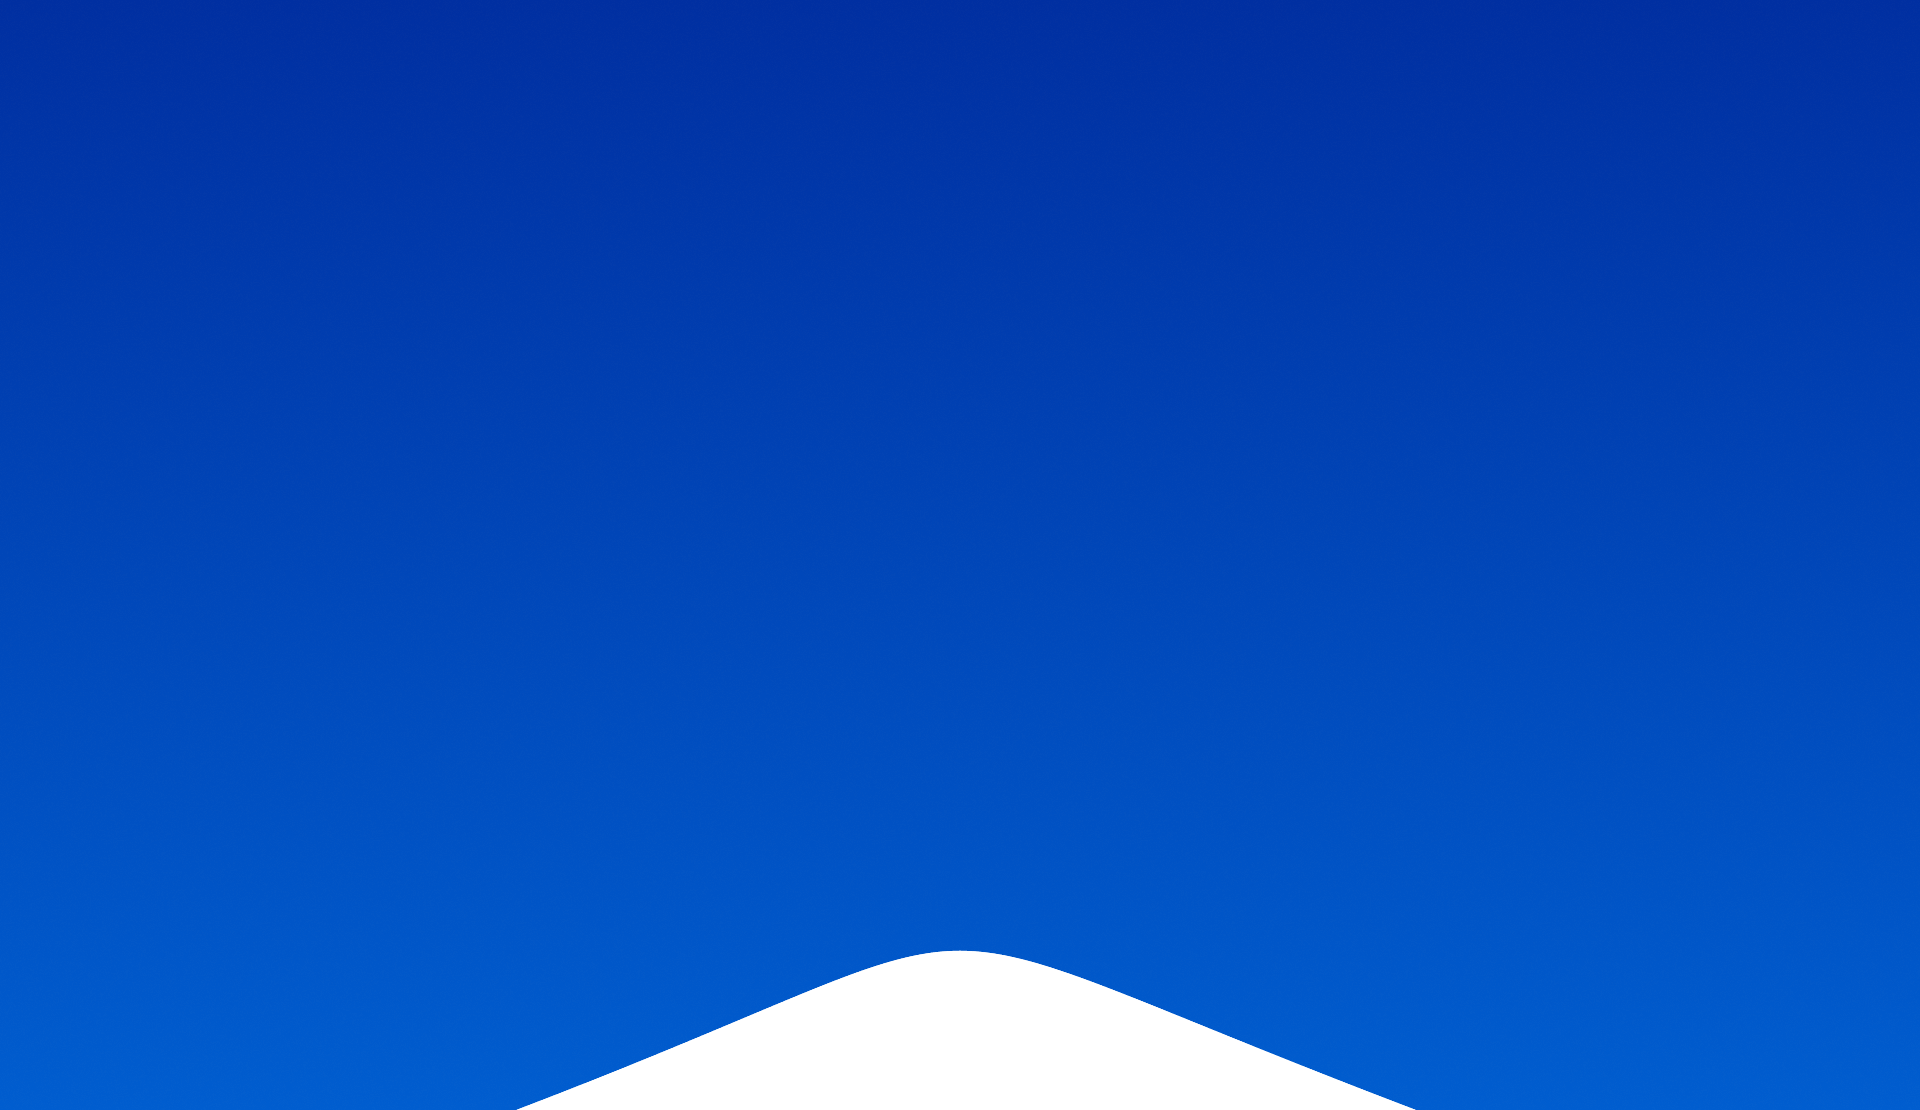
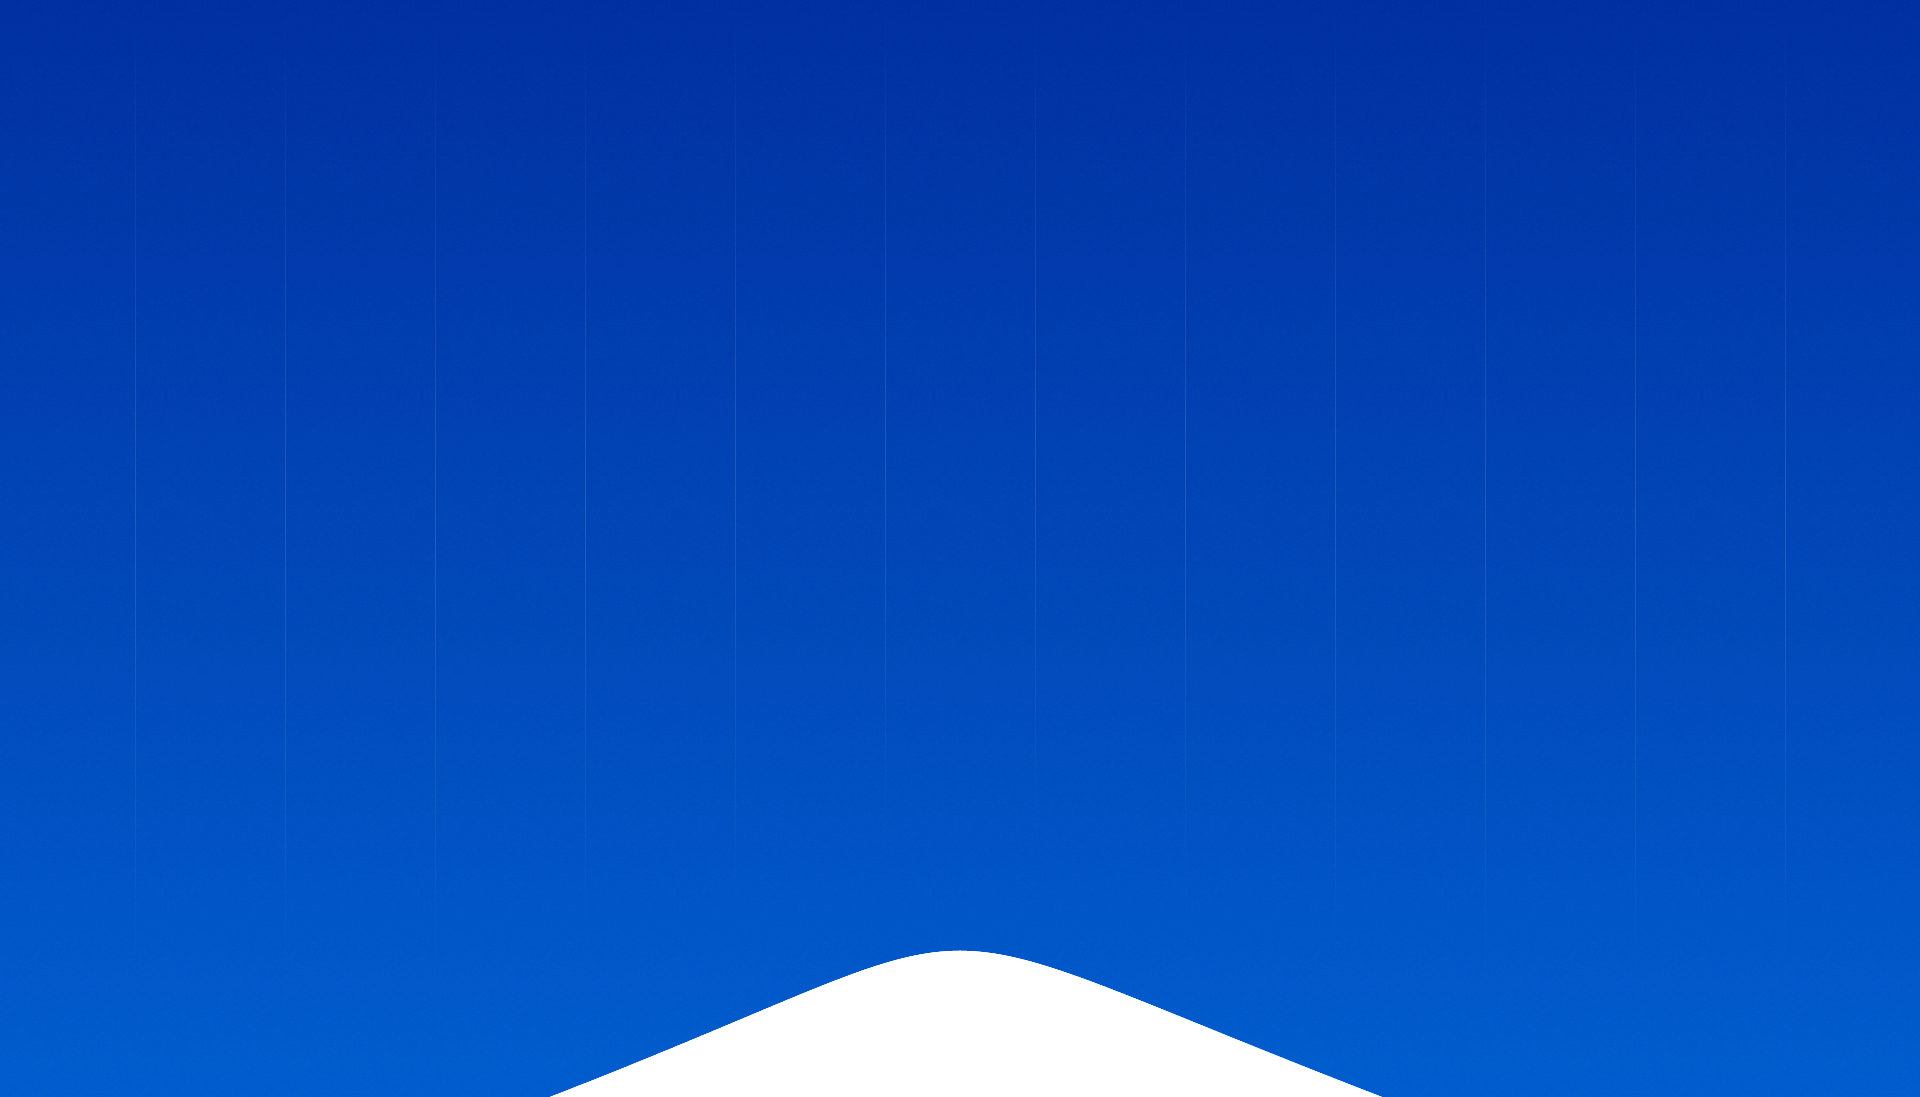
masterfilsngafaf

diff --git a/app/component/body/Page1.js b/app/component/body/Page1.js
@@ -1,6 +1,6 @@
 'use client';
 
-import React , { useRef } from 'react';
+import React, { useEffect, useRef, useState } from 'react';
 import Image from 'next/image';
 import image3 from '../image/image3.png';
 import image4 from '../image/image4.png';
@@ -27,18 +27,46 @@ const Page1 = () => {
       swiperRef.current.swiper.slidePrev();
     }
   };
+
+  const [activeSection, setActiveSection] = useState(null);
+
+  const sectionsRef = useRef([]);
+  useEffect(() => {
+    const handleScroll = () => {
+      sectionsRef.current.forEach((section, index) => {
+        const rect = section.getBoundingClientRect();
+        if (rect.top >= 0 && rect.top < window.innerHeight * 0.5) {
+          setActiveSection(index);
+        }
+      });
+    };
+
+    window.addEventListener('scroll', handleScroll);
+    return () => window.removeEventListener('scroll', handleScroll);
+  }, []);
     return (
         <div>
             <div className='container mx-auto py-[60px] md:py-[80px] lg:py-[120px] xl:py-[150px] 2xl:py-[200px] sm:px-0 px-[24px]'>
+            <div
+                className={`flex flex-col justify-center items-center transition-all duration-700 ${
+                    activeSection === 1 ? 'opacity-100 translate-y-0' : 'opacity-0 translate-y-10'
+                }`}
+                ref={(el) => (sectionsRef.current[1] = el)}
+                >
                 <p className='promise'>Our Promise</p>
                 <h2 className='capitalapex'>Why apex capital?</h2>
-                <div className='flex justify-center items-center gap-[84px] w-full flex-col sm:flex-row'>
-                    <div className='flex-1 overflow-hidden sm:w-auto w-[100%]'>
+                </div>
+
+                <div className='flex justify-center items-center gap-[84px] w-full flex-col sm:flex-row '>
+               
+                    <div className='flex-1 overflow-hidden sm:w-auto w-[100%] relative'>
+                    <div className="swiper-pagination text-[40px] md:text-[50px] lg:text-[60px] xl:text-[80px] 2xl:text-[100px]"></div>
                     <Swiper
                     loop={true}
-                        pagination={{
-                            type: 'fraction',
-                        }}
+                    pagination={{
+                        el: '.swiper-pagination',
+                        type: 'fraction',
+                      }}
                         navigation={{
                             nextEl: '.swiper-next',
                             prevEl: '.swiper-prev',
@@ -57,7 +85,9 @@ const Page1 = () => {
                         </SwiperSlide>
                 </Swiper>
                     </div>
-                    <div className='flex-1'>
+                    <div className={`flex-1 ${
+                    activeSection === 1 ? 'opacity-100 translate-y-0' : 'opacity-0 translate-y-10'
+                }`} ref={(el) => (sectionsRef.current[1] = el)}>
                         <h2 className='firsthanexpein mb-[22px] lg:mb-[32px]'>First-hand experience</h2>
                         <p className='jusinverstong'>
                         We're not just investors; our team is made up of practised entrepreneurs who have lived the startup journey. The result? An eye for promising ideas and the know-how to scale them. Expect more than funding; we offer a holistic partnership based on years of experience.

diff --git a/app/globals.css b/app/globals.css
@@ -7,6 +7,11 @@
   --foreground: #FFF;
 }
 
+html {
+  scroll-behavior: smooth;
+}
+
+
 @media (prefers-color-scheme: dark) {
   :root {
     --background: #FFF;
@@ -100,13 +105,13 @@ body {
   .jusinverstong{
     @apply text-[15px] sm:text-[16px] md:text-[18px] lg:text-[20px] xl:text-[22px] 2xl:text-[24px]
   }
-  .swiper-pagination {
+  /* .swiper-pagination {
     @apply text-[33px] sm:text-[44px] md:text-[50px] lg:text-[60px] xl:text-[80px] 2xl:text-[100px]
   }
   
   .swiper-pagination-current , .swiper-pagination-total {
     @apply text-[28px] sm:text-[33px] md:text-[44px] lg:text-[50px] xl:text-[58px] 2xl:text-[64px]
-  }
+  } */
   .growingonfsdaeef{
     @apply text-[15px] sm:text-[16px] md:text-[18px] lg:text-[20px] xl:text-[22px] 2xl:text-[24px]
   }
@@ -136,6 +141,9 @@ body {
   }
   .socialmediaimage{
     @apply  w-[40px] sm:w-[50px] lg:w-[60px] xl:w-[70px] 2xl:w-[84px] h-[40px] sm:h-[50px] lg:h-[60px] xl:h-[70px] 2xl:h-[84px] flex justify-center items-center rounded-[84px]
+  }
+  .swiper-pagination .swiper-pagination-current ,.swiper-pagination-total{
+    @apply !text-[35px] md:!text-[40px] lg:!text-[45px] xl:!text-[50px] 2xl:!text-[64px]
   }
 }
 
@@ -404,7 +412,8 @@ body {
 }
 
 
-/*move swiper pagination on top to image */
+
+
 .swiper-pagination {
   position: absolute;
   text-align: center;
@@ -412,17 +421,16 @@ body {
   transform: translate3d(0, 0, 0);
   z-index: 10;
   top: 50% !important;
-  right: -22px !important;
-  display: flex;
+  right: 0px !important;
+  display: inline-flex;
   justify-content: end;
   color: #252A4E !important;
   leading-trim: both;
   text-edge: cap;
   font-family: "Mersad";
   font-style: normal;
-  font-weight: 100;
+  font-weight: 100 !important;
   line-height: 120%;
-  
 }
 
 .swiper-pagination-current , .swiper-pagination-total {
@@ -442,4 +450,65 @@ body {
   -webkit-text-stroke-color: #FF8E8E;
   font-family: "Proxima Nova";
   font-size: 100px;
+}
+
+
+.opacity-0 {
+  opacity: 0;
+}
+
+.opacity-100 {
+  opacity: 1;
+}
+
+.translate-y-10 {
+  transform: translateY(10px);
+}
+
+.translate-y-0 {
+  transform: translateY(0);
+}
+
+.transition-all {
+  transition: all 0.7s ease-in-out;
+}
+
+
+.body-container {
+  position: relative;
+  width: 100%;
+  height: 100vh;
+  overflow: hidden;
+}
+
+.page {
+  position: absolute;
+  top: 0;
+  left: 100%; /* Start outside the viewport on the right */
+  width: 100%;
+  height: 100%;
+  opacity: 0; /* Hidden by default */
+  transform: translateX(0);
+  transition: transform 1s ease, opacity 1s ease;
+}
+
+.page.active {
+  left: 0; /* Center the active page */
+  opacity: 1; /* Fully visible */
+  transform: translateX(0); /* No translation */
+  z-index: 1;
+}
+
+.page.slide-in {
+  left: 100%; /* Slide in from the right */
+  opacity: 0;
+  transform: translateX(-100%); /* Slide leftwards to appear */
+  z-index: 0;
+}
+
+.page.slide-out {
+  left: 0;
+  opacity: 0;
+  transform: translateX(-100%); /* Slide leftwards to disappear */
+  z-index: 0;
 }

diff --git a/app/component/header/NavBar.js b/app/component/header/NavBar.js
@@ -1,6 +1,6 @@
 "use client";
 
-
+"use client";
 import Link from 'next/link';
 import React, { useState, useRef, useEffect } from 'react';
 import logo from '../image/logo.png';
@@ -8,6 +8,7 @@ import Image from 'next/image';
 import { LiaBarsSolid } from "react-icons/lia";
 import { VscChromeClose } from "react-icons/vsc";
 import image13 from '../image/image13.png';
+import page3 from '../body/Page3';
 
 const NavBar = () => {
     const [toggle, setToggle] = useState(false);
@@ -50,15 +51,15 @@ const NavBar = () => {
                         <LiaBarsSolid className='text-white text-[24px] absolute' />
                     </div>
                 </div>
-                <h1 className='Froggo-Logo w-[150px] lg:w-[180px] 2xl:w-[207px]'><Image src={logo} alt=''/></h1>
+                <Link href='/' className='Froggo-Logo w-[150px] lg:w-[180px] 2xl:w-[207px]'><Image src={logo} alt=''/></Link>
                 <nav ref={menuRef} className={`navbar-items-main absolute sm:top-0 top-[100%] sm:right-0 sm:relative duration-1000 z-50 sm:opacity-100 flex justify-between items-start sm:items-center gap-[20px] md:gap-[25px] lg:gap-[30px] xl:gap-[35px] 2xl:gap-[40px] sm:flex-row flex-col p-[20px] sm:p-[0]
                     ${toggle ? 'right-[10]' :'right-[130%]' }
                     ${toggle ? 'opacity-100' : 'opacity-10'} 
                     `} >
-                    <Link className={`Link-manu-bar`} href="Portfolio">Portfolio</Link>
-                    <Link className='Link-manu-bar' href="Funds">Funds</Link>
-                    <Link className='Link-manu-bar' href="Our Teamo">Our Teamo</Link>
-                    <Link className='Link-manu-bar ' href="News & Resources">News & Resources</Link>
+                    <Link className="Link-manu-bar" href='/'>Portfolio</Link>
+                    <Link className='Link-manu-bar' href="/Funds">Funds</Link>
+                    <Link className='Link-manu-bar' href="/Our Teamo">Our Teamo</Link>
+                    <Link className='Link-manu-bar ' href="/News & Resources">News & Resources</Link>
                 </nav>
 
                 

diff --git a/app/component/header/HeroArea.js b/app/component/header/HeroArea.js
@@ -4,8 +4,8 @@ import image2 from '../image/image2.png';
 
 const HeroArea = () => {
     return (
-<div className='relative w-full overflow-hidden'>
-    <svg className='absolute w-full px-[200px] 2xl:px-[150px] 3xl:px-[400px]' viewBox="0 0 1651 997" fill="none" xmlns="http://www.w3.org/2000/svg">
+<div className='relative w-full overflow-hidden z-10'>
+    {/* <svg className='absolute w-full px-[200px] 2xl:px-[150px] 3xl:px-[400px]' viewBox="0 0 1651 997" fill="none" xmlns="http://www.w3.org/2000/svg">
 <line x1="0.5" y1="2.18557e-08" x2="0.499956" y2="997" stroke="url(#paint0_linear_123_341)" stroke-opacity="0.4"/>
 <line x1="150.5" y1="2.18557e-08" x2="150.5" y2="997" stroke="url(#paint1_linear_123_341)" stroke-opacity="0.4"/>
 <line x1="300.5" y1="2.18557e-08" x2="300.5" y2="997" stroke="url(#paint2_linear_123_341)" stroke-opacity="0.4"/>
@@ -80,7 +80,7 @@ const HeroArea = () => {
 <stop offset="1" stop-color="white" stop-opacity="0"/>
 </linearGradient>
 </defs>
-            </svg>
+            </svg> */}
             <div className='mx-auto  py-[130px] sm:py-[150px] md:py-[180px] lg:py-[220px] xl:py-[260px] 2xl:py-[270px] sm:px-[50] px-[24px]'>
                 <div className='flex justify-center items-center flex-col'>
                     <p className='venturecpai'>#01 Venture Capital Company</p>
@@ -89,8 +89,8 @@ const HeroArea = () => {
                     <button className='getstartedbutt pb-5 hover:bg-transparent hover:text-[#fff] border-[1px] duration-300 hover:border-[#FFFFFF3D]'>Get Started</button>
                 </div>
             </div>
-            <div className='absolute bottom-2 sm:bottom-[51px] left-[50%] translate-x-[-50%] flex justify-center items-center flex-col sm:gap-[12px]'>
-                <Image src={image2} alt=""/>
+            <div className='absolute bottom-2 sm:bottom-[41px] left-[50%] translate-x-[-50%] flex justify-center items-center flex-col sm:gap-[12px]'>
+                <Image className='' src={image2} alt=""/>
                 <h3 className='ScrollDown'>Scroll Down</h3>
             </div>
         </div>

diff --git a/app/component/body/Page3.js b/app/component/body/Page3.js
@@ -10,7 +10,7 @@ const Page3 = () => {
         <div>
             <div className='container mx-auto px-[24px] sm:py-0 py-[60px] md:py-[80px] lg:py-[120px] xl:py-[150px] 2xl:py-[200px]'>
                 
-               <div className='flex flex-col-reverse items-end md:items-center justify-between  md:flex-row gap-[50px] md:gap-[80px] lg:gap-[120px] xl:gap-[160px] 2xl:gap-[200px] px-6 sm:px-0 h-full'>
+               <div className='flex flex-col items-end md:items-center justify-between  md:flex-row gap-[50px] md:gap-[80px] lg:gap-[120px] xl:gap-[160px] 2xl:gap-[200px] px-6 sm:px-0 h-full'>
                     <div className='flex justify-between flex-col gap-[40px] md:gap-[60px] lg:gap-[80px] xl:gap-[120px] 2xl:gap-[150px] h-[150%]'>
                         <p className='componiesp 2xl:mt-[-350px] !text-[#252A4E] hover:!text-[#252A4E]'>all of this is <br/> possible thanks to </p>
                         <h3 className='numbering 2xl:mb-[-250px]'>Our <br/> Team</h3>

diff --git a/app/component/footer/Footer.js b/app/component/footer/Footer.js
@@ -8,7 +8,7 @@ import Link from 'next/link';
 const Footer = () => {
     return (
         <div className='bg-[#015DCE] overflow-hidden pb-[30px] md:pb-[44px] xl:pb-[64px] relative'>
-            <svg className='absolute top-0 right-0 w-[30%]' viewBox="0 0 554 390" fill="none" xmlns="http://www.w3.org/2000/svg">
+            <svg className='absolute top-0 right-0 w-[30%] z-[-1]' viewBox="0 0 554 390" fill="none" xmlns="http://www.w3.org/2000/svg">
 <line x1="675" y1="159.35" x2="-31" y2="159.35" stroke="url(#paint0_linear_1_827)" stroke-opacity="0.8" stroke-width="0.7"/>
 <line x1="53.65" y1="390" x2="53.65" y2="-231" stroke="url(#paint1_linear_1_827)" stroke-opacity="0.8" stroke-width="0.7"/>
 <line x1="221.65" y1="390" x2="221.65" y2="-231" stroke="url(#paint2_linear_1_827)" stroke-opacity="0.8" stroke-width="0.7"/>

diff --git a/app/component/header/Header.js b/app/component/header/Header.js
@@ -2,6 +2,7 @@ import React from 'react';
 import NavBar from './NavBar';
 import HeroArea from './HeroArea';
 
+
 const Header = () => {
     return (
         <div className='backgroundheader'>
